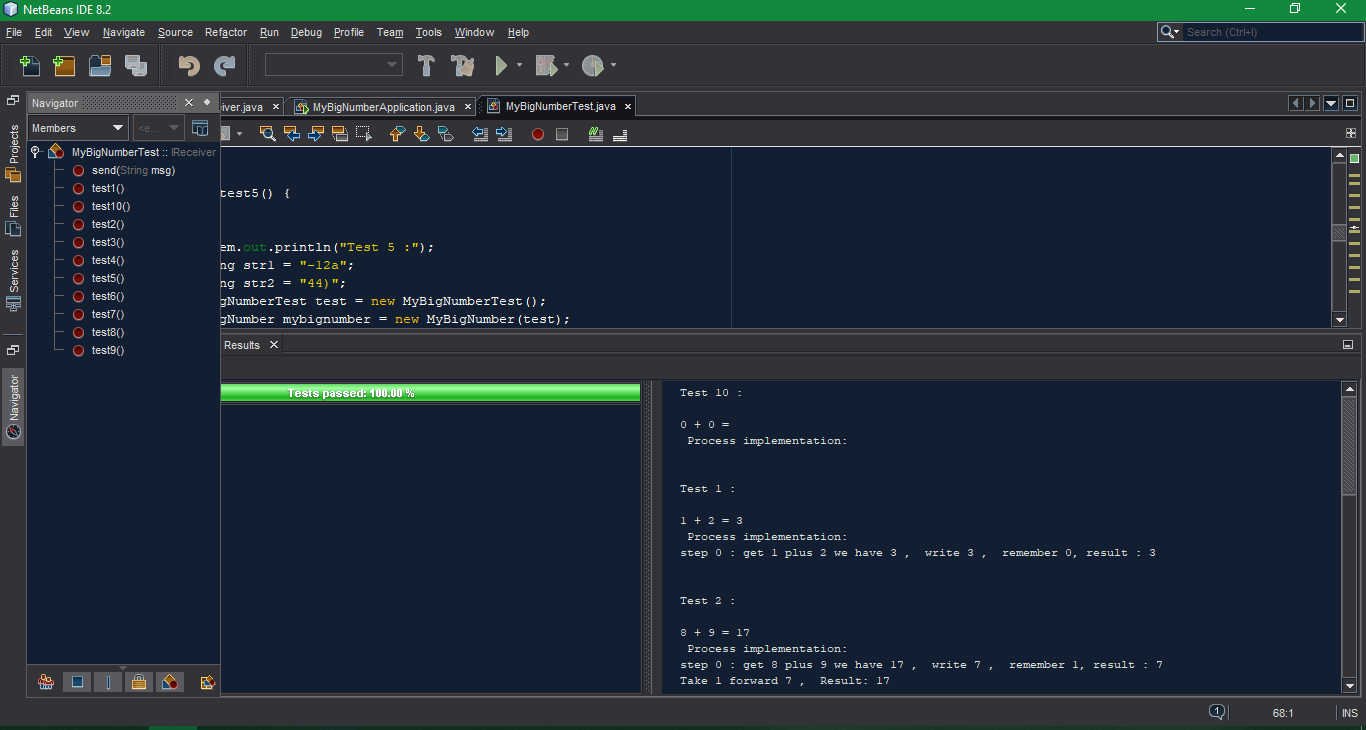
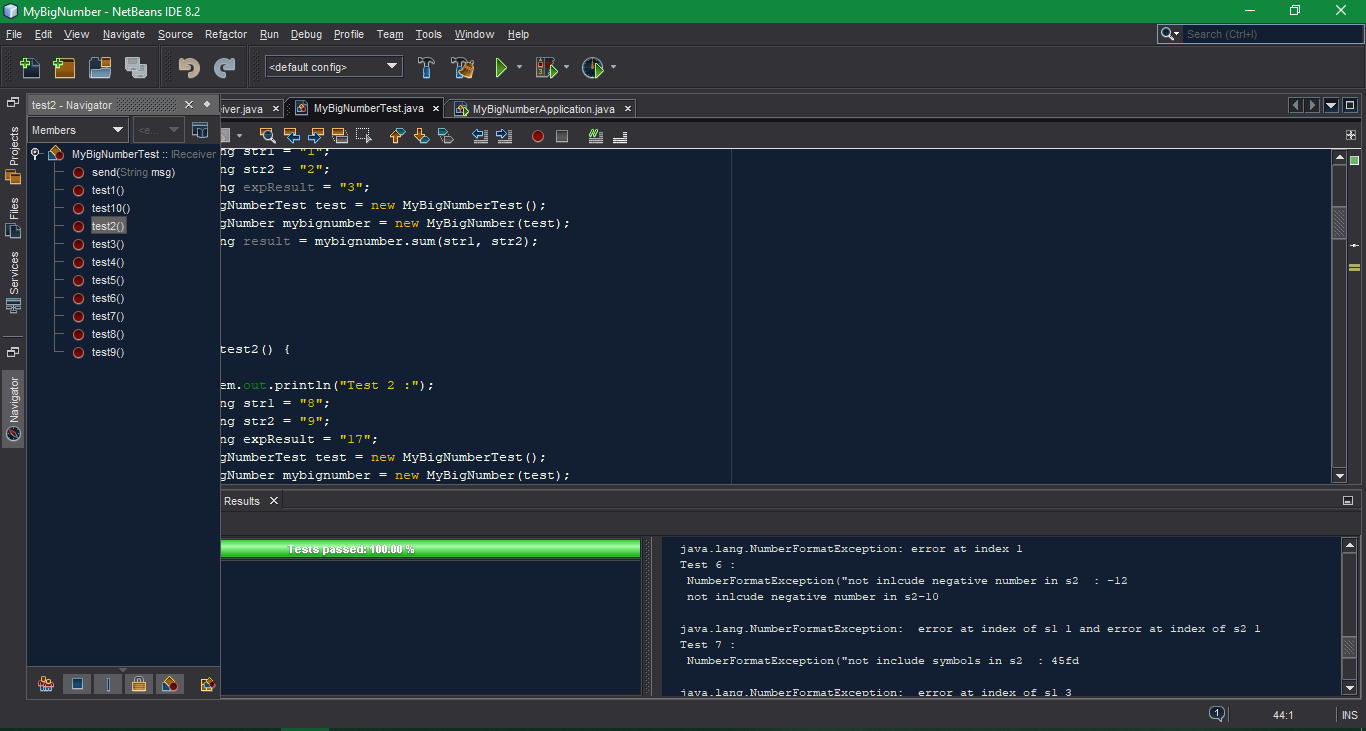
update v5

diff --git a/MyBigNumber/src/mybignumber/MyBigNumber.java b/MyBigNumber/src/mybignumber/MyBigNumber.java
@@ -42,10 +42,10 @@ public class MyBigNumber {
         final Matcher  flag2 = p.matcher(str2); //check negative
         int idx; 
         
-        if ((str1.equals("")) || (str1.trim().isEmpty())) {
+        if ((str1 == null) || (str1.trim().isEmpty())) {
             str1 = "0";
         }
-        if ((str2.equals("")) || (str2.trim().isEmpty())) {
+        if ((str2 == null) || (str2.trim().isEmpty())) {
             str2 = "0";
         }
         
@@ -63,7 +63,7 @@ public class MyBigNumber {
         
         if (str1.charAt(0) == '-' && str2.charAt(0) == '-') {
             idx = 1;
-            this.ireceiver.send(" NumberFormatException(\"not inlcude negative number in s1  : " 
+            this.ireceiver.send(" NumberFormatException(\"not inlcude negative number in s2  : " 
                                 + str1 + " \n not inlcude negative number in s2" + str2);
             throw new NumberFormatException(" error at index of s1 " + idx + " and error at index of s2 " + idx);
         }
@@ -78,7 +78,7 @@ public class MyBigNumber {
         if (flag2.find()) {
             idx = flag2.start();
             this.ireceiver.send(" NumberFormatException(\"not include symbols in s2  : " + str2);
-            throw new NumberFormatException(" error at index of s2 " + ++idx);
+            throw new NumberFormatException(" error at index of s1 " + ++idx);
         }
        
         for (int i = 0; i < maxLen; i++) { //loop

diff --git a/MyBigNumber/src/mybignumber/MyBigNumberApplication.java b/MyBigNumber/src/mybignumber/MyBigNumberApplication.java
@@ -15,14 +15,9 @@ public class MyBigNumberApplication implements IReceiver{
 		try {
 			MyBigNumberApplication myclass = new MyBigNumberApplication();
 			MyBigNumber mybignumber = new MyBigNumber(myclass);
-			String s1 ="", s2 ="";
-			if(args.length > 0) {
-				s1 = args[0];
-				s2 = args[1];
-			}else {
-				s1 = "0";
-				s2 = "0";
-			}
+			String s1 = args[0];
+                        String s2 = args[1];
+			
 			String sum = mybignumber.sum(s1, s2);
 		}catch(Exception e) {
 			System.out.println(e.getMessage());

diff --git a/MyBigNumber/test/mybignumber/MyBigNumberTest.java b/MyBigNumber/test/mybignumber/MyBigNumberTest.java
@@ -55,7 +55,7 @@ public class MyBigNumberTest implements IReceiver{
             MyBigNumberTest test = new MyBigNumberTest();
             MyBigNumber mybignumber = new MyBigNumber(test);
             String result = mybignumber.sum(str1, str2);
-            
+            assertEquals(expResult, result);
     }
 
     @Test
